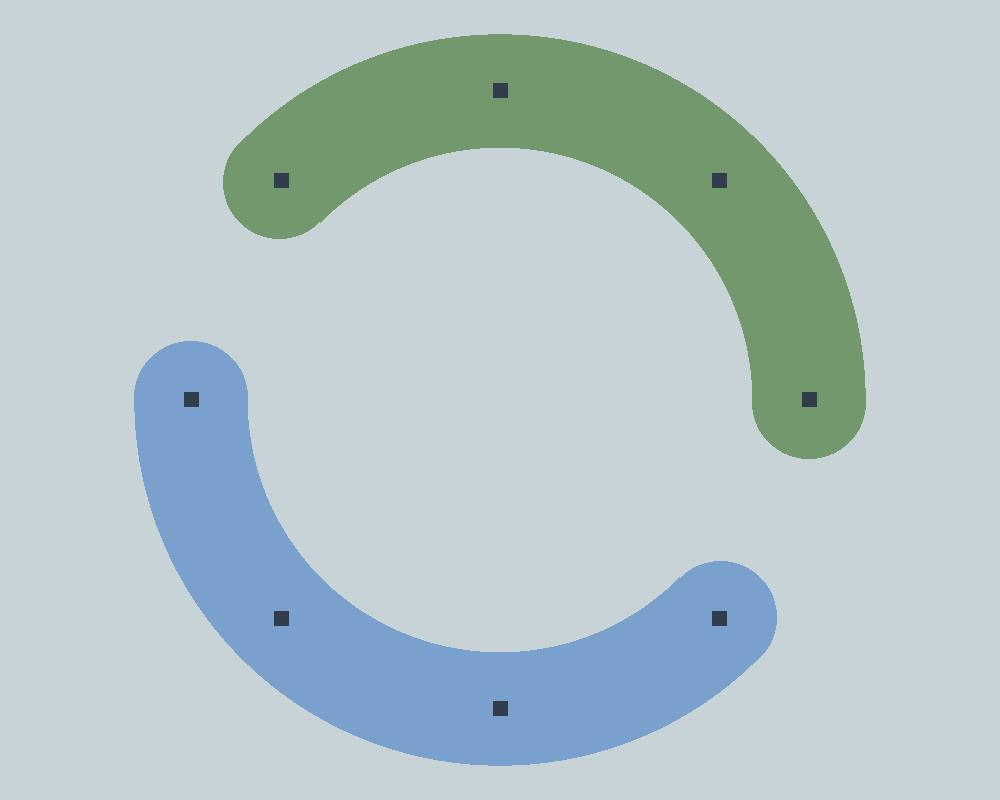
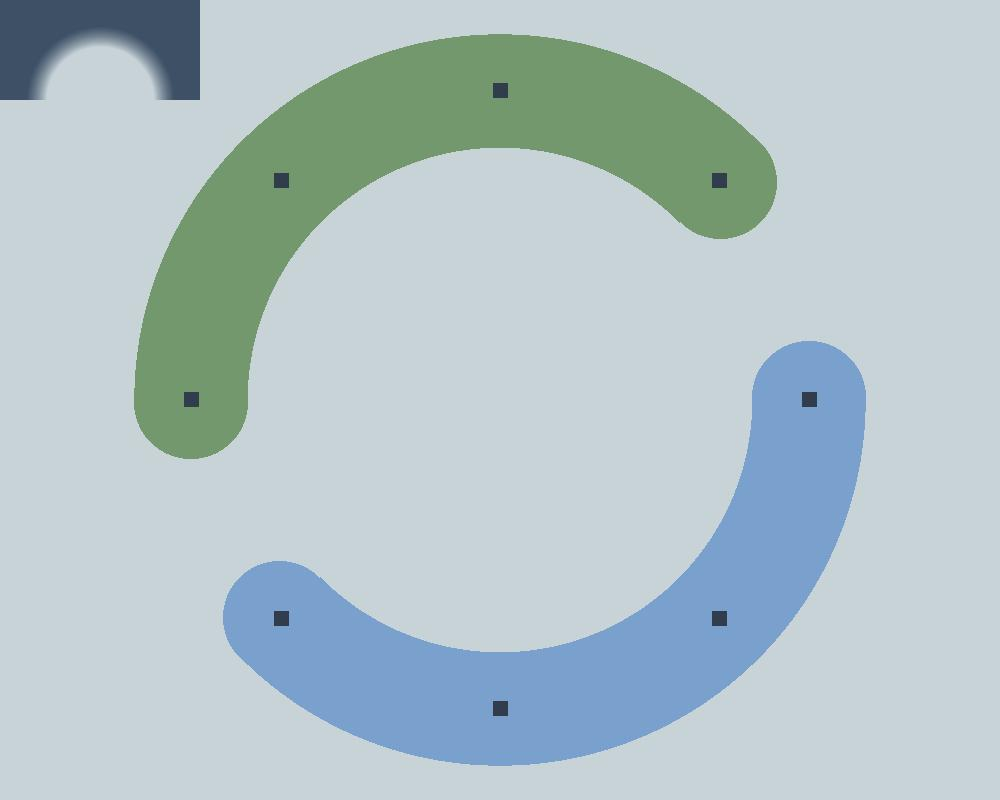
Make a mask
instead a shape there will be a mask with the transparent shape inside

Changed region(s): [[0.124, 0.1875, 0.31, 0.8125], [0.682, 0.1875, 0.868, 0.8125], [0.0, 0.0, 0.217, 0.125]]

diff --git a/getSomeMask.m b/getSomeMask.m
@@ -1,0 +1,32 @@
+function Mask = getSomeMask()
+%
+p.sig = 25;
+p.siz = 100;
+
+p.sig = p.sig*1.3;
+[X,Y] = meshgrid(-p.siz:p.siz,-p.siz:p.siz);
+visual.bgColor = 0.8;
+visual.white = 1;
+p.MColor = [0.4784 0.6275 0.8039];
+Mask = ones(2*p.siz+1, 2*p.siz+1, 2) * visual.bgColor;
+m = visual.white * (1 - (-0.5 + 5*exp(-((X/(1.5*p.sig)).^2)-((Y/(1.5*p.sig)).^2))));
+m(m>visual.white) = visual.white;
+m(m<0) = 0;
+
+Mask(:, :, 4) = m;
+Mask(:, :, 3) = p.MColor(3)/2;
+Mask(:, :, 2) = p.MColor(2)/2;
+Mask(:, :, 1) = p.MColor(1)/2;
+
+
+
+%global visual 
+
+% %size = 25;
+% visual.bgColor = 1;%[0.1922 0.2353 0.2980];
+% visual.white = 0;
+% [X,Y] = meshgrid(-size:size,-size:size);%meshgrid(-p.siz:p.siz,-p.siz:p.siz);
+% 
+% Mask = ones(2*size+1, 2*size+1, 2) * visual.white;
+% Mask(:, :, 2) = visual.bgColor * (1 - (-((X).^2)-((Y).^2)));
+ end

diff --git a/getSmoothEdgeMask.m b/getSmoothEdgeMask.m
@@ -1,0 +1,18 @@
+function Mask = getSmoothEdgeMask(p)
+%
+% 2013 by Martin Rolfs
+
+global visual 
+
+p.sig = p.sig - 0.3*p.sig;
+[X,Y] = meshgrid(-p.siz:p.siz,-p.siz:p.siz);
+
+Mask = ones(2*p.siz+1, 2*p.siz+1, 2) * visual.bgColor;
+m = visual.white * (1 - (-0.5 + 5*exp(-((X/(1.5*p.sig)).^2)-((Y/(1.5*p.sig)).^2))));
+m(m>visual.white) = visual.white;
+m(m<0) = 0;
+
+Mask(:, :, 4) = m;
+Mask(:, :, 3) = p.MColor(3)/2;
+Mask(:, :, 2) = p.MColor(2)/2;
+Mask(:, :, 1) = p.MColor(1)/2;
